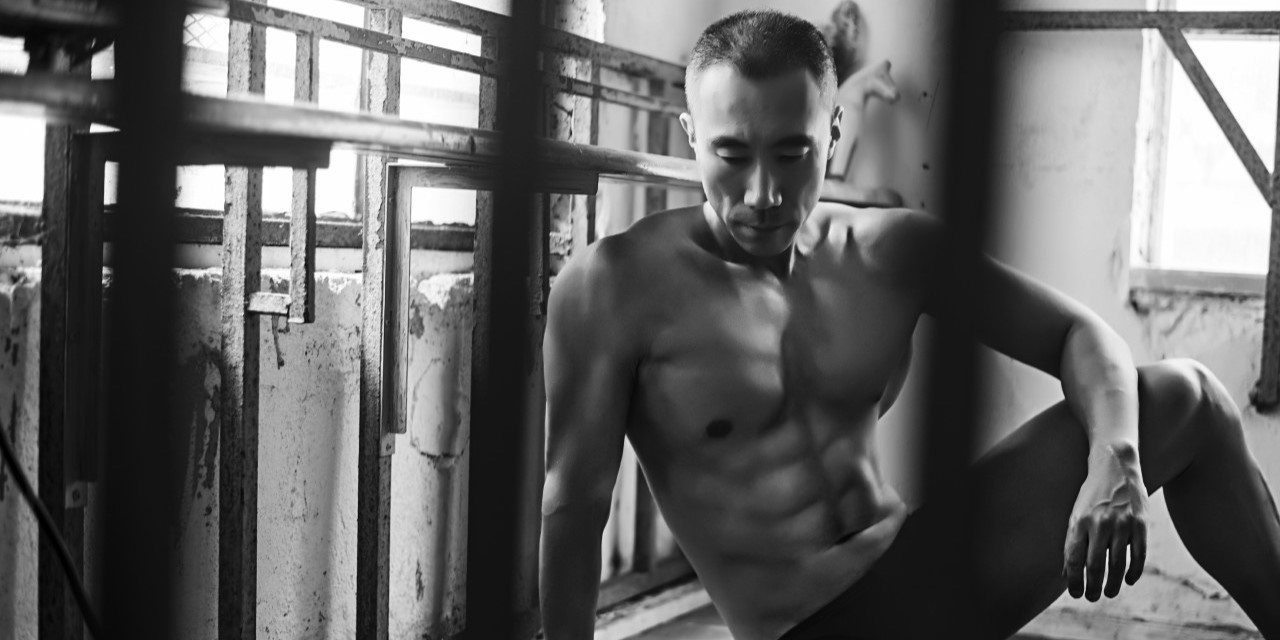
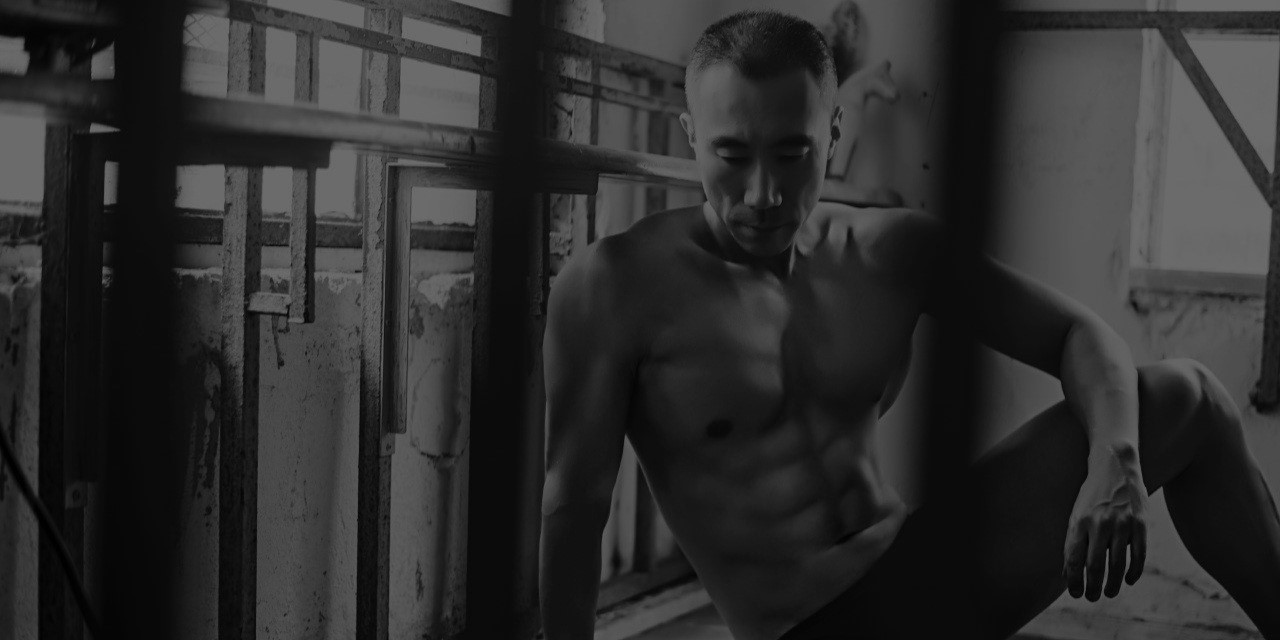
feat: slideshow 수정

diff --git a/css/slideshow.css b/css/slideshow.css
@@ -1,1 +1,1 @@
-.slide{width:200%;height:47vw;position:relative;background-color:#0d0d0d}.slide .images{width:400vw;height:730px;display:flex;position:absolute;left:3.5vw;transition:all .5s;color:red}.slide .images img{width:90vw;height:45vw;margin:0 1.5vw;border-radius:30px}.slide .blur{width:100vw;height:45vw;background-color:rgba(13,13,13,.4);color:#fff;position:absolute}.slide .blur .movearrows{height:94%;display:flex;justify-content:space-between;align-items:center}.slide .blur .movearrows div{padding:20px;margin:0 6vw}.slide .blur .movearrows div .a-icon{width:30px;height:30px}.slide .blur .movearrows div:hover{cursor:pointer;color:#c38657}.slide .blur .dots{display:flex;justify-content:center}.slide .blur .dots div{width:12px;height:12px;margin:0 7px;border-radius:50px;transition:all .5s}.slide .blur .dots div:hover{cursor:pointer}/*# sourceMappingURL=slideshow.css.map */
+.slide{width:200%;height:44.6vw;position:relative;background-color:#0d0d0d}.slide .images{width:400vw;height:730px;display:flex;position:absolute;left:3.5vw;transition:all .5s}.slide .images .img1 div{position:absolute;width:90vw;font-family:"Orbit",sans-serif;font-weight:800;color:#fff;text-align:center}.slide .images .img1 .txt1{font-size:1.3vw;top:16.5vw}.slide .images .img1 .txt2{font-size:1.3vw;top:18.5vw}.slide .images .img1 .txt3{font-size:2.3vw;top:22.5vw}.slide .images img{width:90vw;height:43.8vw;margin:0 1.5vw;border-radius:30px}.slide .blur{width:100vw;height:43.8vw;color:#fff;position:absolute}.slide .blur .movearrows{height:96%;display:flex;justify-content:space-between;align-items:center}.slide .blur .movearrows div{padding:20px;margin:0 6vw}.slide .blur .movearrows div .a-icon{width:30px;height:30px}.slide .blur .movearrows div:hover{cursor:pointer;color:#c38657}.slide .blur .dots{display:flex;justify-content:center}.slide .blur .dots div{width:12px;height:12px;margin:0 7px;border-radius:50px;transition:all .5s}.slide .blur .dots div:hover{cursor:pointer}/*# sourceMappingURL=slideshow.css.map */

diff --git a/flex-pt/src/components/slideshow/slideshow.scss b/flex-pt/src/components/slideshow/slideshow.scss
@@ -1,6 +1,6 @@
 .slide {
   width: 200%;
-  height: 47vw;
+  height: 44.6vw;
   position: relative;
   background-color: rgb(13, 13, 13);
 
@@ -11,11 +11,36 @@
     position: absolute;
     left: 3.5vw;
     transition: all 0.5s;
-    color: red;
+
+    .img1 {
+      div {
+        position: absolute;
+        width: 90vw;
+        font-family: "Orbit", sans-serif;
+        font-weight: 800;
+        color: white;
+        text-align: center;
+      }
+
+      .txt1 {
+        font-size: 1.3vw;
+        top: 16.5vw;
+      }
+
+      .txt2 {
+        font-size: 1.3vw;
+        top: 18.5vw;
+      }
+
+      .txt3 {
+        font-size: 2.3vw;
+        top: 22.5vw;
+      }
+    }
 
     img {
       width: 90vw;
-      height: 45vw;
+      height: 43.8vw;
       margin: 0 1.5vw;
       border-radius: 30px;
     }
@@ -23,13 +48,12 @@
 
   .blur {
     width: 100vw;
-    height: 45vw;
-    background-color: rgba(13, 13, 13, 0.4);
+    height: 43.8vw;
     color: white;
     position: absolute;
 
     .movearrows {
-      height: 94%;
+      height: 96%;
       display: flex;
       justify-content: space-between;
       align-items: center;

diff --git a/flex-pt/src/components/slideshow/slideshow.js b/flex-pt/src/components/slideshow/slideshow.js
@@ -41,7 +41,14 @@ export default function Slideshow() {
   return (
     <div className="slide">
       <div className="images" ref={imgs}>
-        <img src={mainImage} />
+        <div className="img1">
+          <img src={mainImage} />
+          <div className="txt1">대형 헬스장과는 다르다! </div>
+          <div className="txt2">수업의 퀄리티를 보셔야 합니다. </div>
+          <div className="txt3">
+            30년 이상의 경력, 오랜 경험과 노하우로 운동 지도{" "}
+          </div>
+        </div>
         <img src={slideImage2} />
       </div>
       <div className="blur">

diff --git a/flex-pt/src/App.css b/flex-pt/src/App.css
@@ -1,4 +1,4 @@
-@import url("https://fonts.googleapis.com/css2?family=Sedgwick+Ave&family=Space+Mono:ital,wght@0,400;0,700;1,400;1,700&display=swap");
+@import url("https://fonts.googleapis.com/css2?family=Orbit&family=Sedgwick+Ave&family=Space+Mono:ital,wght@0,400;0,700;1,400;1,700&display=swap");
 
 * {
   margin: 0;
